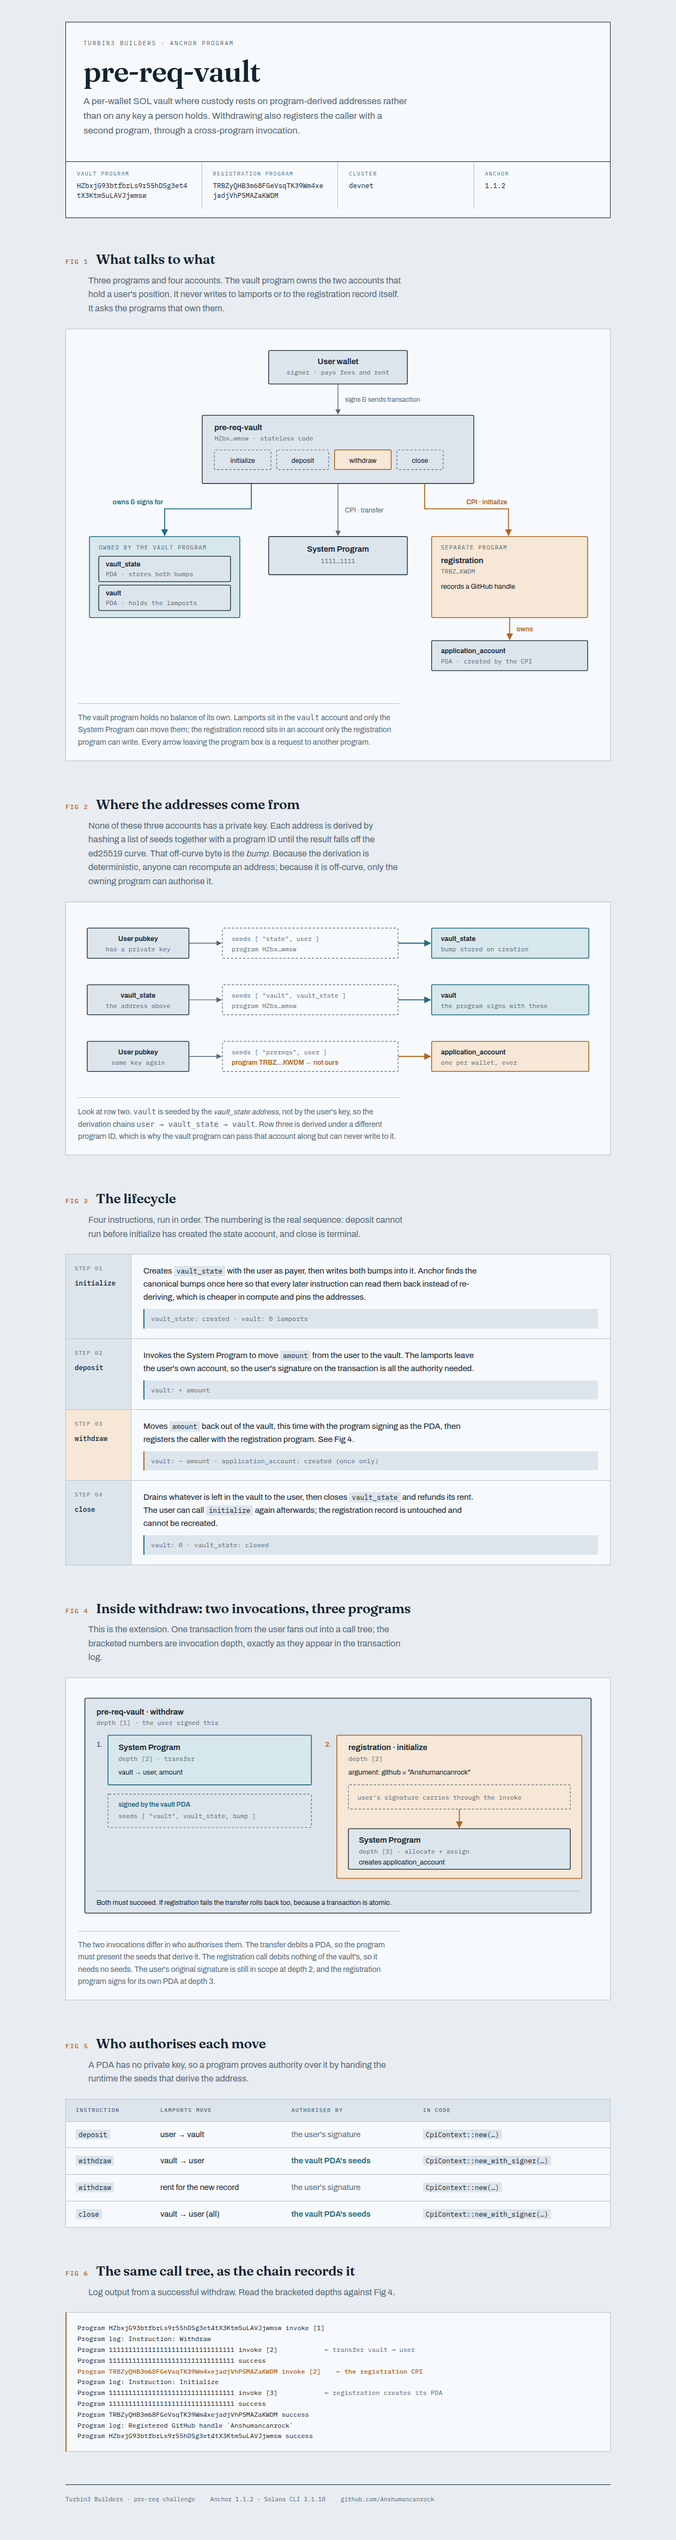
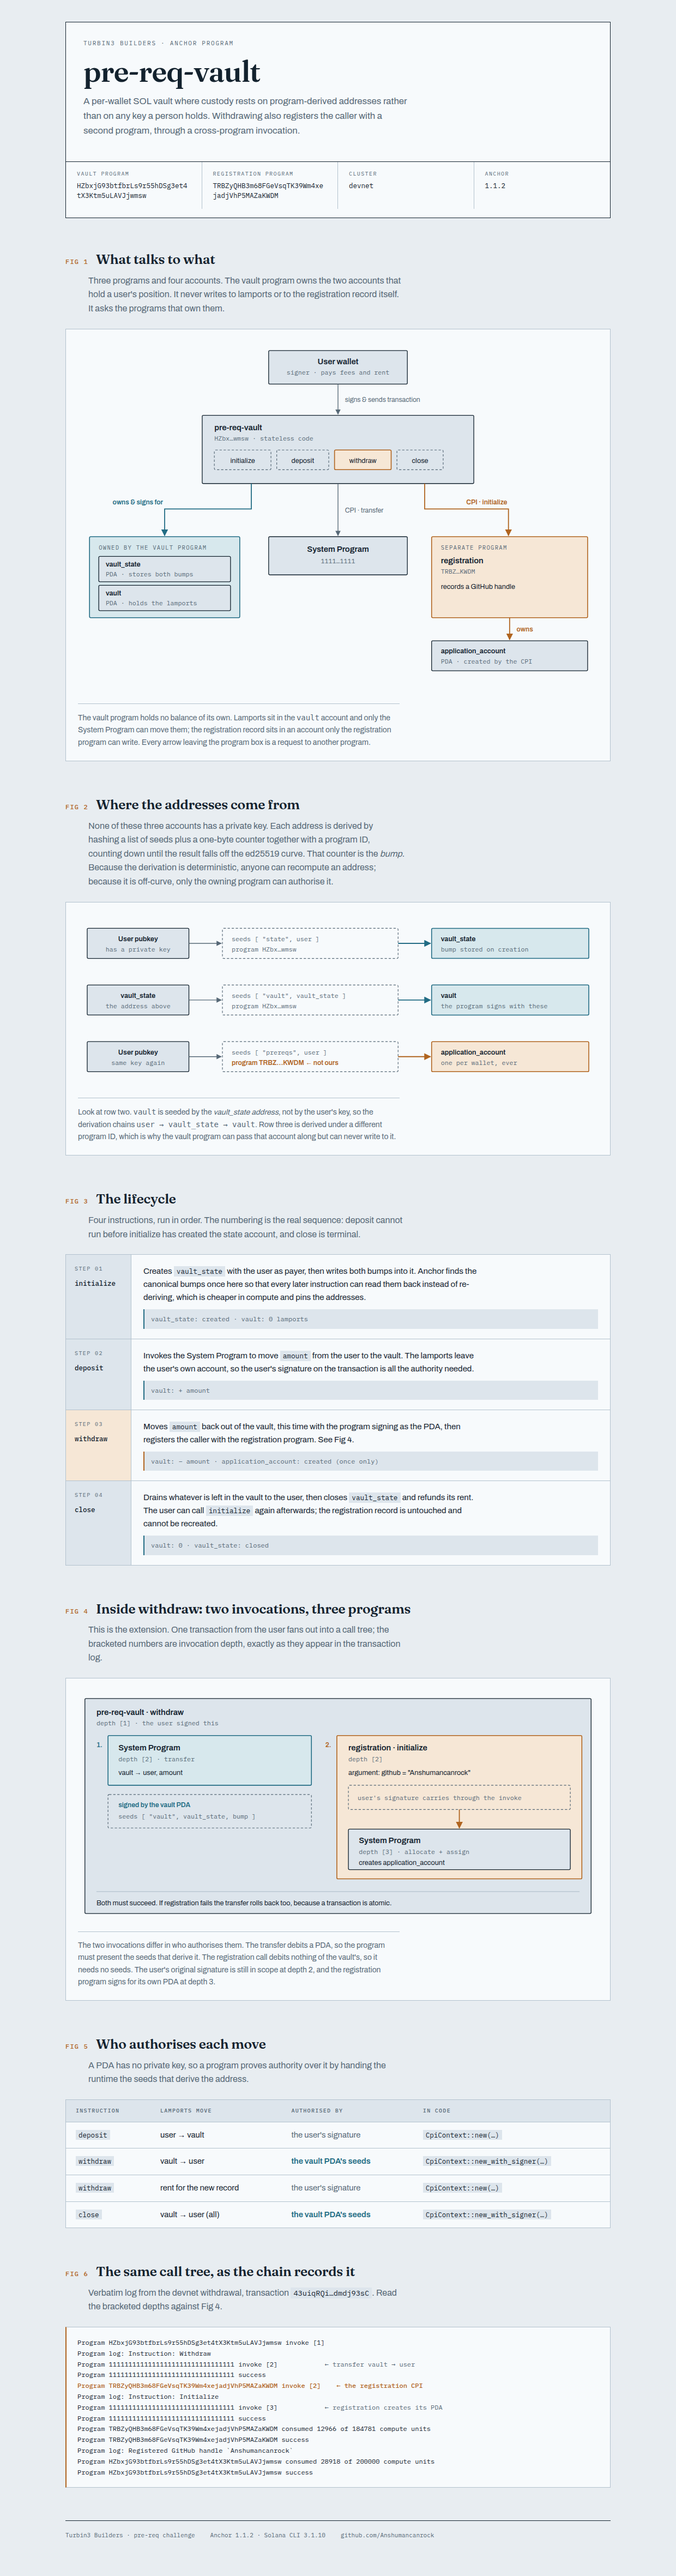
Make both log blocks verbatim and correct the bump definition
The README and diagram both presented the withdraw log as actual output while
silently dropping the two compute-unit lines. Both now match the devnet
transaction line for line.

The diagram also called the bump 'that off-curve byte'. The bump is the
one-byte counter that gets decremented until the derived address lands off
the curve, not a byte of the address.

Changed region(s): [[0.0919, 0.2801, 0.9194, 0.9648], [0.1226, 0.0311, 0.8581, 0.2801], [0.6129, 0.3423, 0.8887, 0.4357]]

diff --git a/docs/architecture.html b/docs/architecture.html
@@ -450,8 +450,9 @@
     <h2><span class="num">FIG 2</span> Where the addresses come from</h2>
     <p class="lede">
       None of these three accounts has a private key. Each address is derived by hashing a
-      list of seeds together with a program ID until the result falls off the ed25519 curve.
-      That off-curve byte is the <em>bump</em>. Because the derivation is deterministic,
+      list of seeds plus a one-byte counter together with a program ID, counting down until
+      the result falls off the ed25519 curve. That counter is the <em>bump</em>. Because
+      the derivation is deterministic,
       anyone can recompute an address; because it is off-curve, only the owning program can
       authorise it.
     </p>
@@ -683,7 +684,8 @@
   <section>
     <h2><span class="num">FIG 6</span> The same call tree, as the chain records it</h2>
     <p class="lede">
-      Log output from a successful withdraw. Read the bracketed depths against Fig 4.
+      Verbatim log from the devnet withdrawal, transaction
+      <code>43uiqRQi…dmdj93sC</code>. Read the bracketed depths against Fig 4.
     </p>
 
 <pre>Program HZbxjG93btfbrLs9r55hDSg3et4tX3Ktm5uLAVJjwmsw invoke [1]
@@ -694,8 +696,10 @@ Program 11111111111111111111111111111111 success
 Program log: Instruction: Initialize
 Program 11111111111111111111111111111111 invoke [3]            <span class="dim">← registration creates its PDA</span>
 Program 11111111111111111111111111111111 success
+Program TRBZyQHB3m68FGeVsqTK39Wm4xejadjVhP5MAZaKWDM consumed 12966 of 184781 compute units
 Program TRBZyQHB3m68FGeVsqTK39Wm4xejadjVhP5MAZaKWDM success
 Program log: Registered GitHub handle `Anshumancanrock`
+Program HZbxjG93btfbrLs9r55hDSg3et4tX3Ktm5uLAVJjwmsw consumed 28918 of 200000 compute units
 Program HZbxjG93btfbrLs9r55hDSg3et4tX3Ktm5uLAVJjwmsw success</pre>
   </section>
 

diff --git a/README.md b/README.md
@@ -54,8 +54,10 @@ Program TRBZyQHB3m68FGeVsqTK39Wm4xejadjVhP5MAZaKWDM invoke [2]
 Program log: Instruction: Initialize
 Program 11111111111111111111111111111111 invoke [3]
 Program 11111111111111111111111111111111 success
+Program TRBZyQHB3m68FGeVsqTK39Wm4xejadjVhP5MAZaKWDM consumed 12966 of 184781 compute units
 Program TRBZyQHB3m68FGeVsqTK39Wm4xejadjVhP5MAZaKWDM success
 Program log: Registered GitHub handle `Anshumancanrock`
+Program HZbxjG93btfbrLs9r55hDSg3et4tX3Ktm5uLAVJjwmsw consumed 28918 of 200000 compute units
 Program HZbxjG93btfbrLs9r55hDSg3et4tX3Ktm5uLAVJjwmsw success
 ```
 
